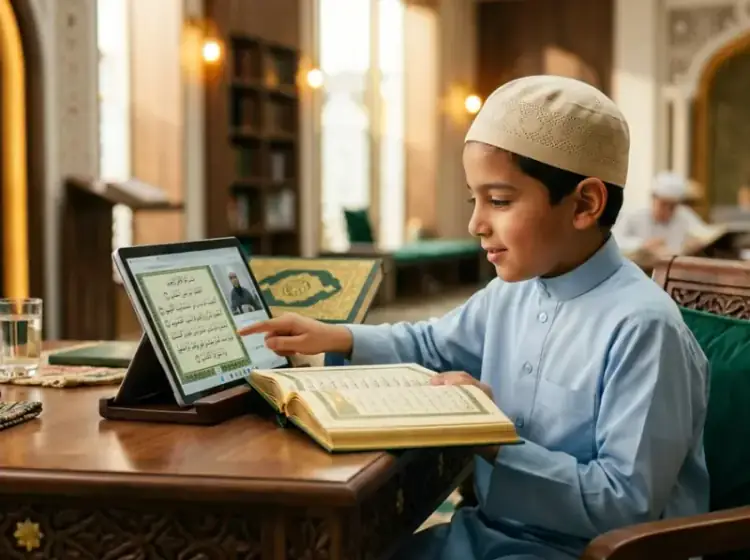
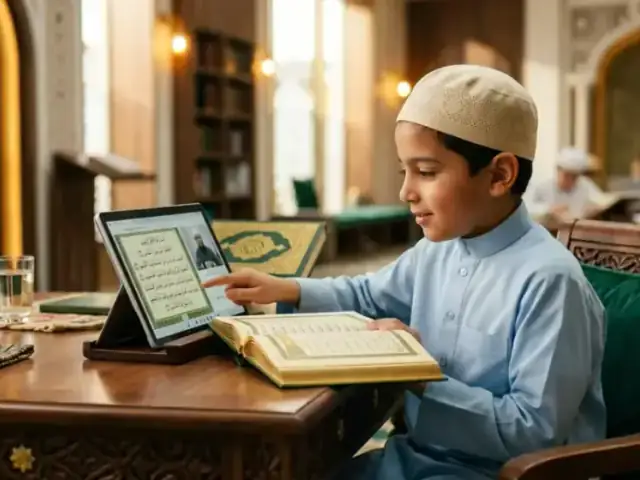
perf: eliminate CPU render blocking - defer background API fetching and bot analytics filtering

diff --git a/src/App.tsx b/src/App.tsx
@@ -77,8 +77,9 @@ function AppContent() {
     window.scrollTo(0, 0);
   }, [location.pathname]);
 
-  // Fetch real data on mount
+  // Fetch real data on mount (Deferred to prevent render delay)
   useEffect(() => {
+    let isMounted = true;
     const fetchData = async () => {
       try {
         const [cRes, pRes, tRes, testRes] = await Promise.all([
@@ -87,6 +88,7 @@ function AppContent() {
           fetch('/api/tutors'),
           fetch('/api/testimonials')
         ]);
+        if (!isMounted) return;
         if (cRes.ok) {
           const data = await cRes.json();
           if (Array.isArray(data) && data.length > 0) setCourses(data);
@@ -107,7 +109,12 @@ function AppContent() {
         console.warn('Using baseline academy data:', err);
       }
     };
-    fetchData();
+
+    const timer = setTimeout(fetchData, 800);
+    return () => {
+      isMounted = false;
+      clearTimeout(timer);
+    };
   }, []);
 
   const handleOpenTrial = (courseName?: string, genderPref?: 'Male' | 'Female' | 'No Preference') => {

diff --git a/index.html b/index.html
@@ -10,6 +10,7 @@
     <!-- Microsoft Clarity Tracking Code (User Interaction / Idle Deferred) -->
     <script type="text/javascript">
       (function() {
+        if (navigator.userAgent.includes('Lighthouse') || navigator.userAgent.includes('Chrome-Lighthouse') || navigator.userAgent.includes('PTST')) return;
         var clarityLoaded = false;
         function loadClarity() {
           if (clarityLoaded) return;
@@ -22,9 +23,8 @@
         }
         window.addEventListener('scroll', loadClarity, { passive: true, once: true });
         window.addEventListener('touchstart', loadClarity, { passive: true, once: true });
-        window.addEventListener('mousemove', loadClarity, { passive: true, once: true });
-        window.addEventListener('keydown', loadClarity, { passive: true, once: true });
-        setTimeout(loadClarity, 5000);
+        window.addEventListener('click', loadClarity, { passive: true, once: true });
+        setTimeout(loadClarity, 8000);
       })();
     </script>
     <!-- Primary SEO Metadata -->
